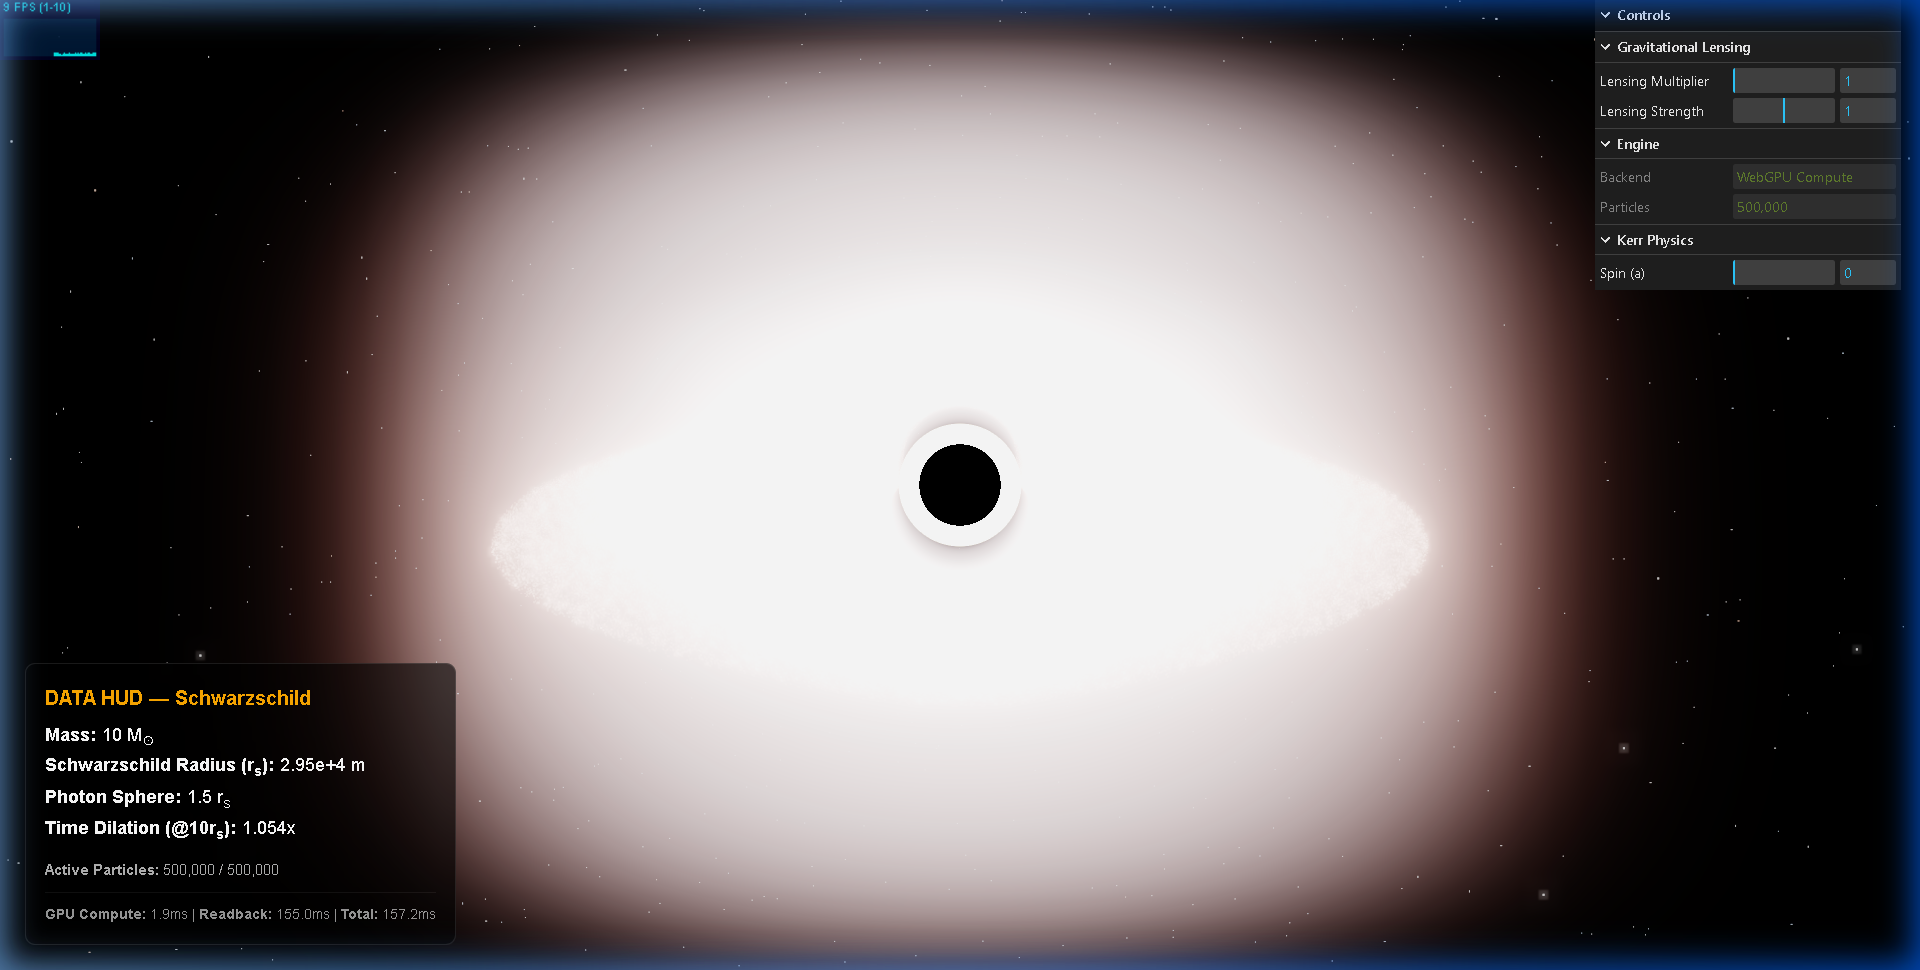
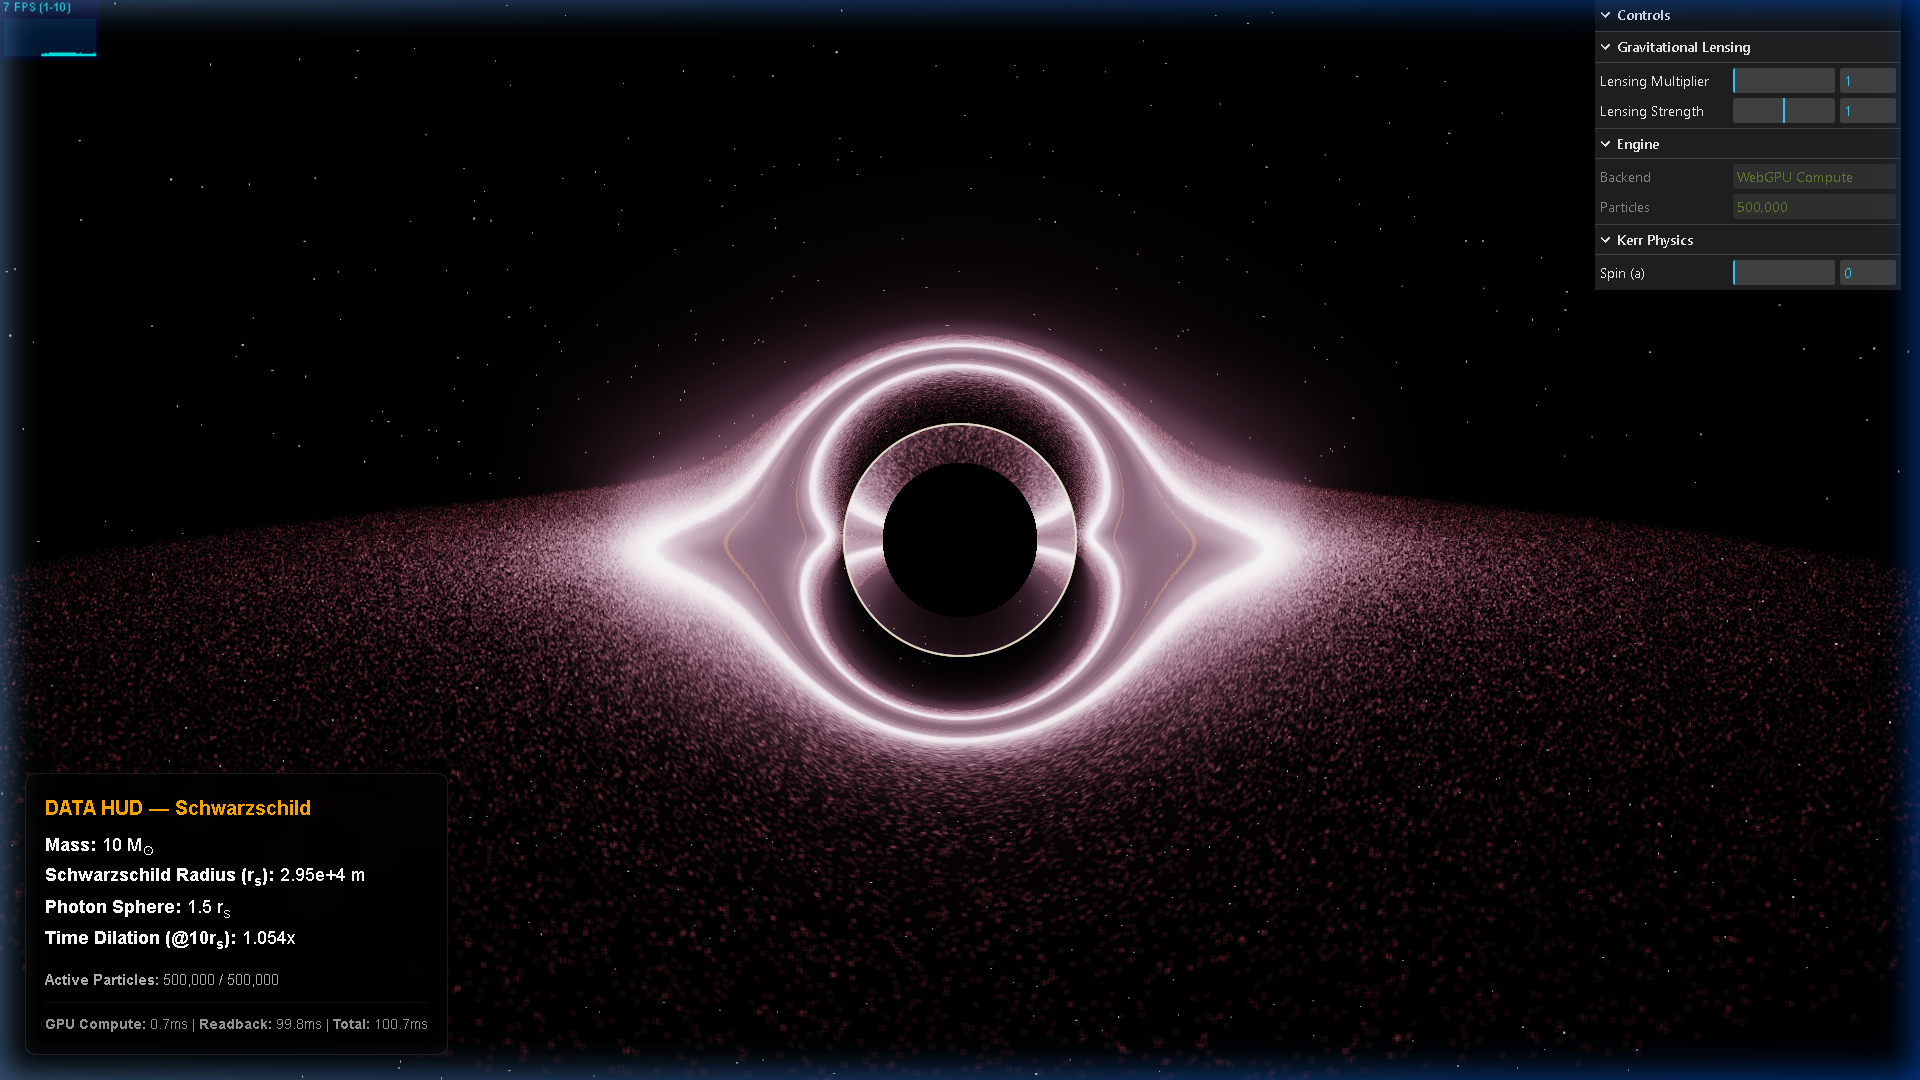
Visual fix: tighten bloom (0.6/0.9/0.4), reduce particle opacity (0.15), scale colors for additive blending, cinematic low-angle camera

diff --git a/src/core/SceneManager.js b/src/core/SceneManager.js
@@ -17,10 +17,10 @@ export class SceneManager {
     this.container = container;
     this.isWebGPU = false;
     this.gpuDevice = null;
-    
+
     // Create Scene
     this.scene = new THREE.Scene();
-    
+
     // Create Camera
     const aspect = window.innerWidth / window.innerHeight;
     this.camera = new THREE.PerspectiveCamera(
@@ -29,7 +29,7 @@ export class SceneManager {
       Config.rendering.near,
       Config.rendering.far
     );
-    this.camera.position.set(0, 5, 20); // 20 rs away from singularity
+    this.camera.position.set(0, 1.5, 12); // Low-angle cinematic view
     this.camera.lookAt(0, 0, 0);
 
     // Renderer will be set up asynchronously via init()
@@ -52,15 +52,15 @@ export class SceneManager {
               maxBufferSize: adapter.limits.maxBufferSize,
             }
           });
-          
+
           this.gpuDevice = device;
           this.isWebGPU = true;
-          
+
           // Use standard WebGL renderer for Three.js rendering
           // (compute runs on raw WebGPU device, rendering stays WebGL)
           this.renderer = new THREE.WebGLRenderer({ antialias: true, alpha: false });
-          
-          console.log('%c[SceneManager] WebGPU device acquired ✅ — Compute shaders enabled', 
+
+          console.log('%c[SceneManager] WebGPU device acquired ✅ — Compute shaders enabled',
             'color: #00ff88; font-weight: bold');
           console.log(`[SceneManager] Max storage buffer: ${(device.limits.maxStorageBufferBindingSize / 1024 / 1024).toFixed(0)} MB`);
           console.log(`[SceneManager] Max buffer size: ${(device.limits.maxBufferSize / 1024 / 1024).toFixed(0)} MB`);
@@ -77,22 +77,22 @@ export class SceneManager {
       this.renderer = new THREE.WebGLRenderer({ antialias: true, alpha: false });
       this._showWebGPUError();
     }
-    
+
     // Configure renderer (works for both WebGL and WebGPU)
     this.renderer.setPixelRatio(window.devicePixelRatio);
     this.renderer.setSize(window.innerWidth, window.innerHeight);
     this.renderer.setClearColor(0x000000, 1);
-    
+
     // Ensure the canvas fully covers the screen
     this.renderer.domElement.style.display = 'block';
     this.renderer.domElement.style.width = '100vw';
     this.renderer.domElement.style.height = '100vh';
-    
+
     this.container.appendChild(this.renderer.domElement);
 
     // Handle Resize
     window.addEventListener('resize', this.onWindowResize.bind(this));
-    
+
     return this;
   }
 
@@ -121,10 +121,10 @@ export class SceneManager {
   onWindowResize() {
     const width = window.innerWidth;
     const height = window.innerHeight;
-    
+
     this.camera.aspect = width / height;
     this.camera.updateProjectionMatrix();
-    
+
     this.renderer.setSize(width, height);
   }
 
@@ -134,7 +134,7 @@ export class SceneManager {
   render() {
     this.renderer.render(this.scene, this.camera);
   }
-  
+
   /**
    * Add object to scene
    * @param {THREE.Object3D} object 

diff --git a/src/gpu/GPUParticleSystem.js b/src/gpu/GPUParticleSystem.js
@@ -235,10 +235,10 @@ export class GPUParticleSystem {
     geometry.setAttribute('color', new THREE.BufferAttribute(colors, 3));
     
     const material = new THREE.PointsMaterial({
-      size: 0.05,
+      size: 0.03,
       vertexColors: true,
       transparent: true,
-      opacity: 0.85,
+      opacity: 0.15,  // Low — 500k particles stack additively
       blending: THREE.AdditiveBlending,
       depthWrite: false,
       sizeAttenuation: true,
@@ -367,9 +367,11 @@ export class GPUParticleSystem {
           const z = mappedData[src + 2];
           const r = Math.sqrt(x * x + z * z);
           const T = Math.pow(r_isco / Math.max(r, r_isco), 0.75);
-          colorArr[dst]     = 0.9 + 0.1 * T;
-          colorArr[dst + 1] = 0.2 + 0.75 * T;
-          colorArr[dst + 2] = 0.05 + 0.95 * T;
+          // Scaled for additive blending — inner=blue-white, outer=deep red
+          // Values intentionally low (0.1–0.6) so 500k particles don't clip
+          colorArr[dst]     = 0.3 + 0.3 * T;   // R: 0.3 (outer) → 0.6 (inner)
+          colorArr[dst + 1] = 0.05 + 0.35 * T;  // G: 0.05 (outer) → 0.4 (inner)
+          colorArr[dst + 2] = 0.02 + 0.48 * T;  // B: 0.02 (outer) → 0.5 (inner)
         }
       } else if (updateColors) {
         colorArr[dst] = 0;

diff --git a/src/rendering/LensingRenderer.js b/src/rendering/LensingRenderer.js
@@ -37,9 +37,9 @@ export class LensingRenderer {
     // 2. Bloom Pass (Cinematic Glow)
     this.bloomPass = new UnrealBloomPass(
       new THREE.Vector2(window.innerWidth, window.innerHeight),
-      1.2, // strength (tuned down to avoid white-clipping with ACES)
-      0.5, // radius
-      0.7  // threshold (lower = more glow)
+      0.6, // strength (Tightened to reveal detail)
+      0.4, // radius
+      0.9  // threshold (Only the hottest inner regions bloom)
     );
     this.composer.addPass(this.bloomPass);
     

diff --git a/PHASES.md b/PHASES.md
@@ -22,7 +22,7 @@
 
 **Goal:** Prove the WebGPU compute pipeline works. Offload particle physics from CPU to GPU.
 
-![Phase 1 — 100k GPU particles with WebGPU Compute](docs/phases/phase1_100k_particles.png)
+![Phase 1 — 100k GPU particles with WebGPU Compute](./docs/phases/phase1_100k_particles.png)
 *Phase 1 result: 100,000 particles, WebGPU Compute backend, Schwarzschild mode*
 
 ### What was built
@@ -84,7 +84,7 @@ WebGPU is used **only for compute** (raw `GPUDevice`). Three.js WebGL rendering 
 
 **Goal:** Replace Newtonian gravity with Kerr metric physics. Add spin parameter with real-time control.
 
-![Phase 2 — Kerr spin slider and frame dragging](docs/phases/phase2_kerr_spin.png)
+![Phase 2 — Kerr spin slider and frame dragging](./docs/phases/phase2_kerr_spin.png)
 *Phase 2 result: Kerr Physics folder with Spin (a) slider, Schwarzschild mode at a=0*
 
 ### What was implemented
@@ -149,7 +149,7 @@ Frame dragging is **gated** behind `if (spin > 0.001)` to avoid unnecessary cros
 
 **Goal:** Shader-only visual improvements. No physics changes.
 
-![Phase 3 — Color gradient, photon ring, ACES tonemapping](docs/phases/phase3_visual_upgrade.png)
+![Phase 3 — Color gradient, photon ring, ACES tonemapping](./docs/phases/phase3_visual_upgrade.png)
 *Phase 3 result: Blue-white inner disk → red outer, sharp photon ring, ACES tonemapping, bloom tuning*
 
 ### What was implemented
@@ -215,7 +215,7 @@ photonRing *= (1.0 + uSpin * 0.5 * cos(phi));
 
 **Goal:** Scale to 500k particles. Eliminate CPU stall. Add particle respawn and performance profiling.
 
-![Phase 4 — 500k particles with performance metrics](docs/phases/phase4_500k_particles.png)
+![Phase 4 — 500k particles with performance metrics](./docs/phases/phase4_500k_particles.png)
 *Phase 4 result: 500,000 particles, GPU respawn active, performance metrics in HUD*
 
 ### What was implemented
